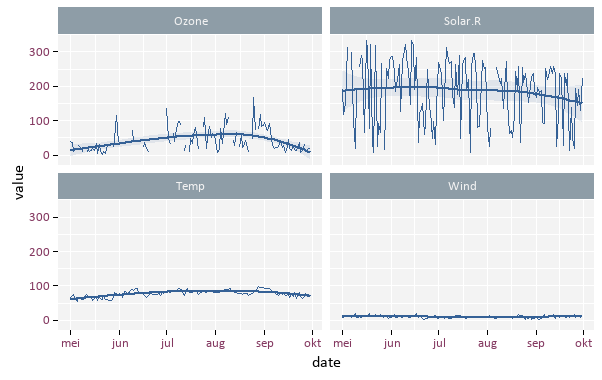
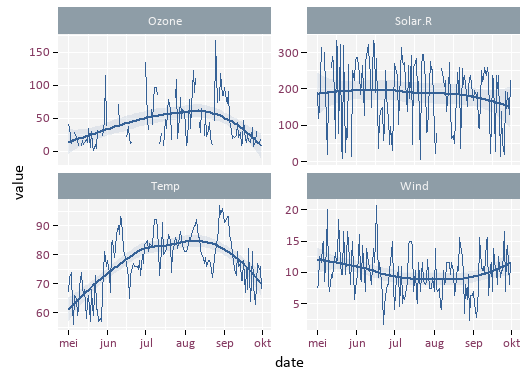
Improve challenges and add figure 3B 20210831

diff --git a/docs/sessions/20210831_ggplot_basics.html b/docs/sessions/20210831_ggplot_basics.html
@@ -145,7 +145,8 @@ ggplot(ToothGrowth, aes(x = dose, y = len, color = "blue", alpha = 0.3)) +
   geom_point()
 ```
 
-2. With so many points it is hard to see the effect of `supp` and `dose` on `len`. A box plot ( `geom_boxplot()`) could help, but what's gone wrong with this code? The x , `dose`, doesn't make any sense. How to solve it?
+2. With so many points it is hard to see the effect of `supp` and `dose` on `len`. A box plot ( `geom_boxplot()`) could help, but what's gone wrong with this code? The x , `dose`, doesn't make any sense. How to solve it? Hint: look at the examples in the help file of `?geom_boxplot`.
+
 ```
 ggplot(ToothGrowth, aes(x = dose, y = len, color = supp, group = supp)) +
   geom_boxplot()
@@ -189,7 +190,7 @@ hair_eye_color_df <- as.data.frame(HairEyeColor)
 
 try to best show the difference of the distribution between males and females for each combinations of hair-eye color. Here below one possible way*.
 
-![:scale 120%]({{ site.baseurl}}/assets/images/20210831/)
+![:scale 120%]({{ site.baseurl}}/assets/images/20210831/20210831_hair_eye_color.png)
 
 <small>* __Note__: To get same color, run [`library(INBOtheme)`](https://inbo.github.io/INBOtheme/).
 
@@ -199,7 +200,7 @@ class: left, middle
 # Bonus challenge
 
 Using `airquality` dataset, how to plot each air quality variables (`Ozone`,
-`Solar.R`, `Wind` and `Temp`) as function of the date (`month`- `day` combination) and add a smoother on on it as shown in the figure* below? Note that the code to combine `month` and `day` to a variable called `date` is already provided. Hint: `ggplot2` alone could be not enough, you could opt for combining `ggplot2` with another `tidyverse` package
+`Solar.R`, `Wind` and `Temp`) as function of the date (`month`- `day` combination) with a smoother on top of it as shown in the figure* below? Think about the best way to display the y-axis scale(s) of the subplots. Note that the code to combine `month` and `day` to a variable called `date` is already provided, see code below. Hint: `ggplot2` alone could be not enough, you could opt for combining `ggplot2` with another `tidyverse` package.
 
 ![:scale 100%]({{ site.baseurl}}/assets/images/20210831/20210831_airquality_bonus_challenge.png)
 
